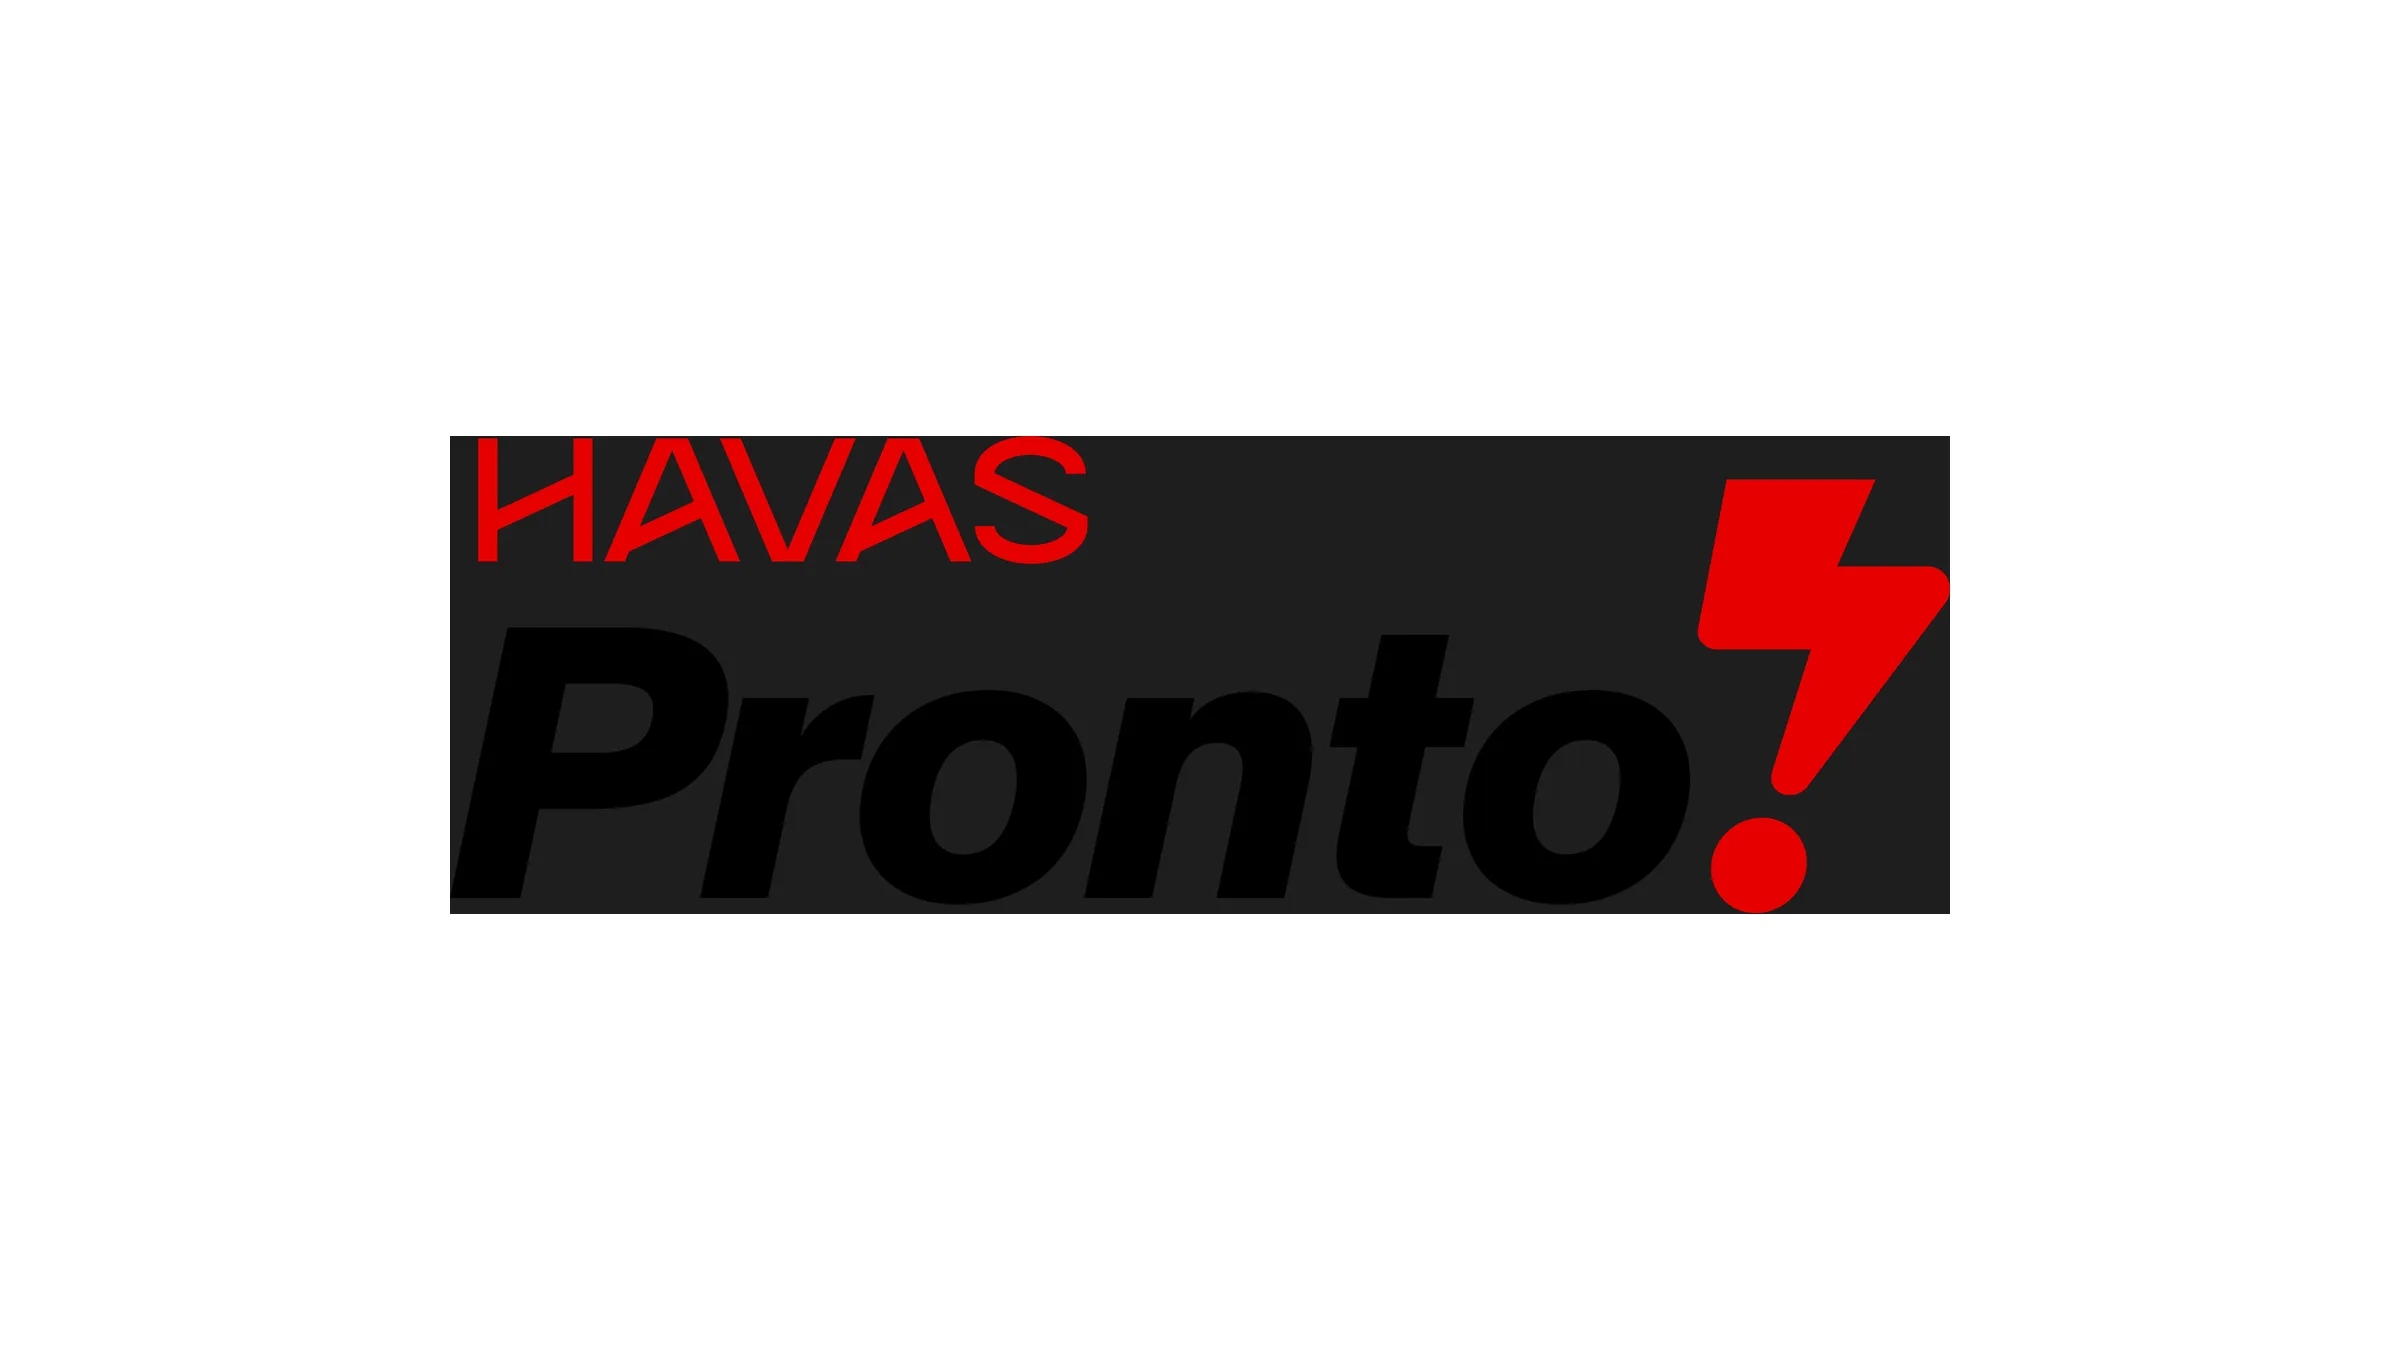
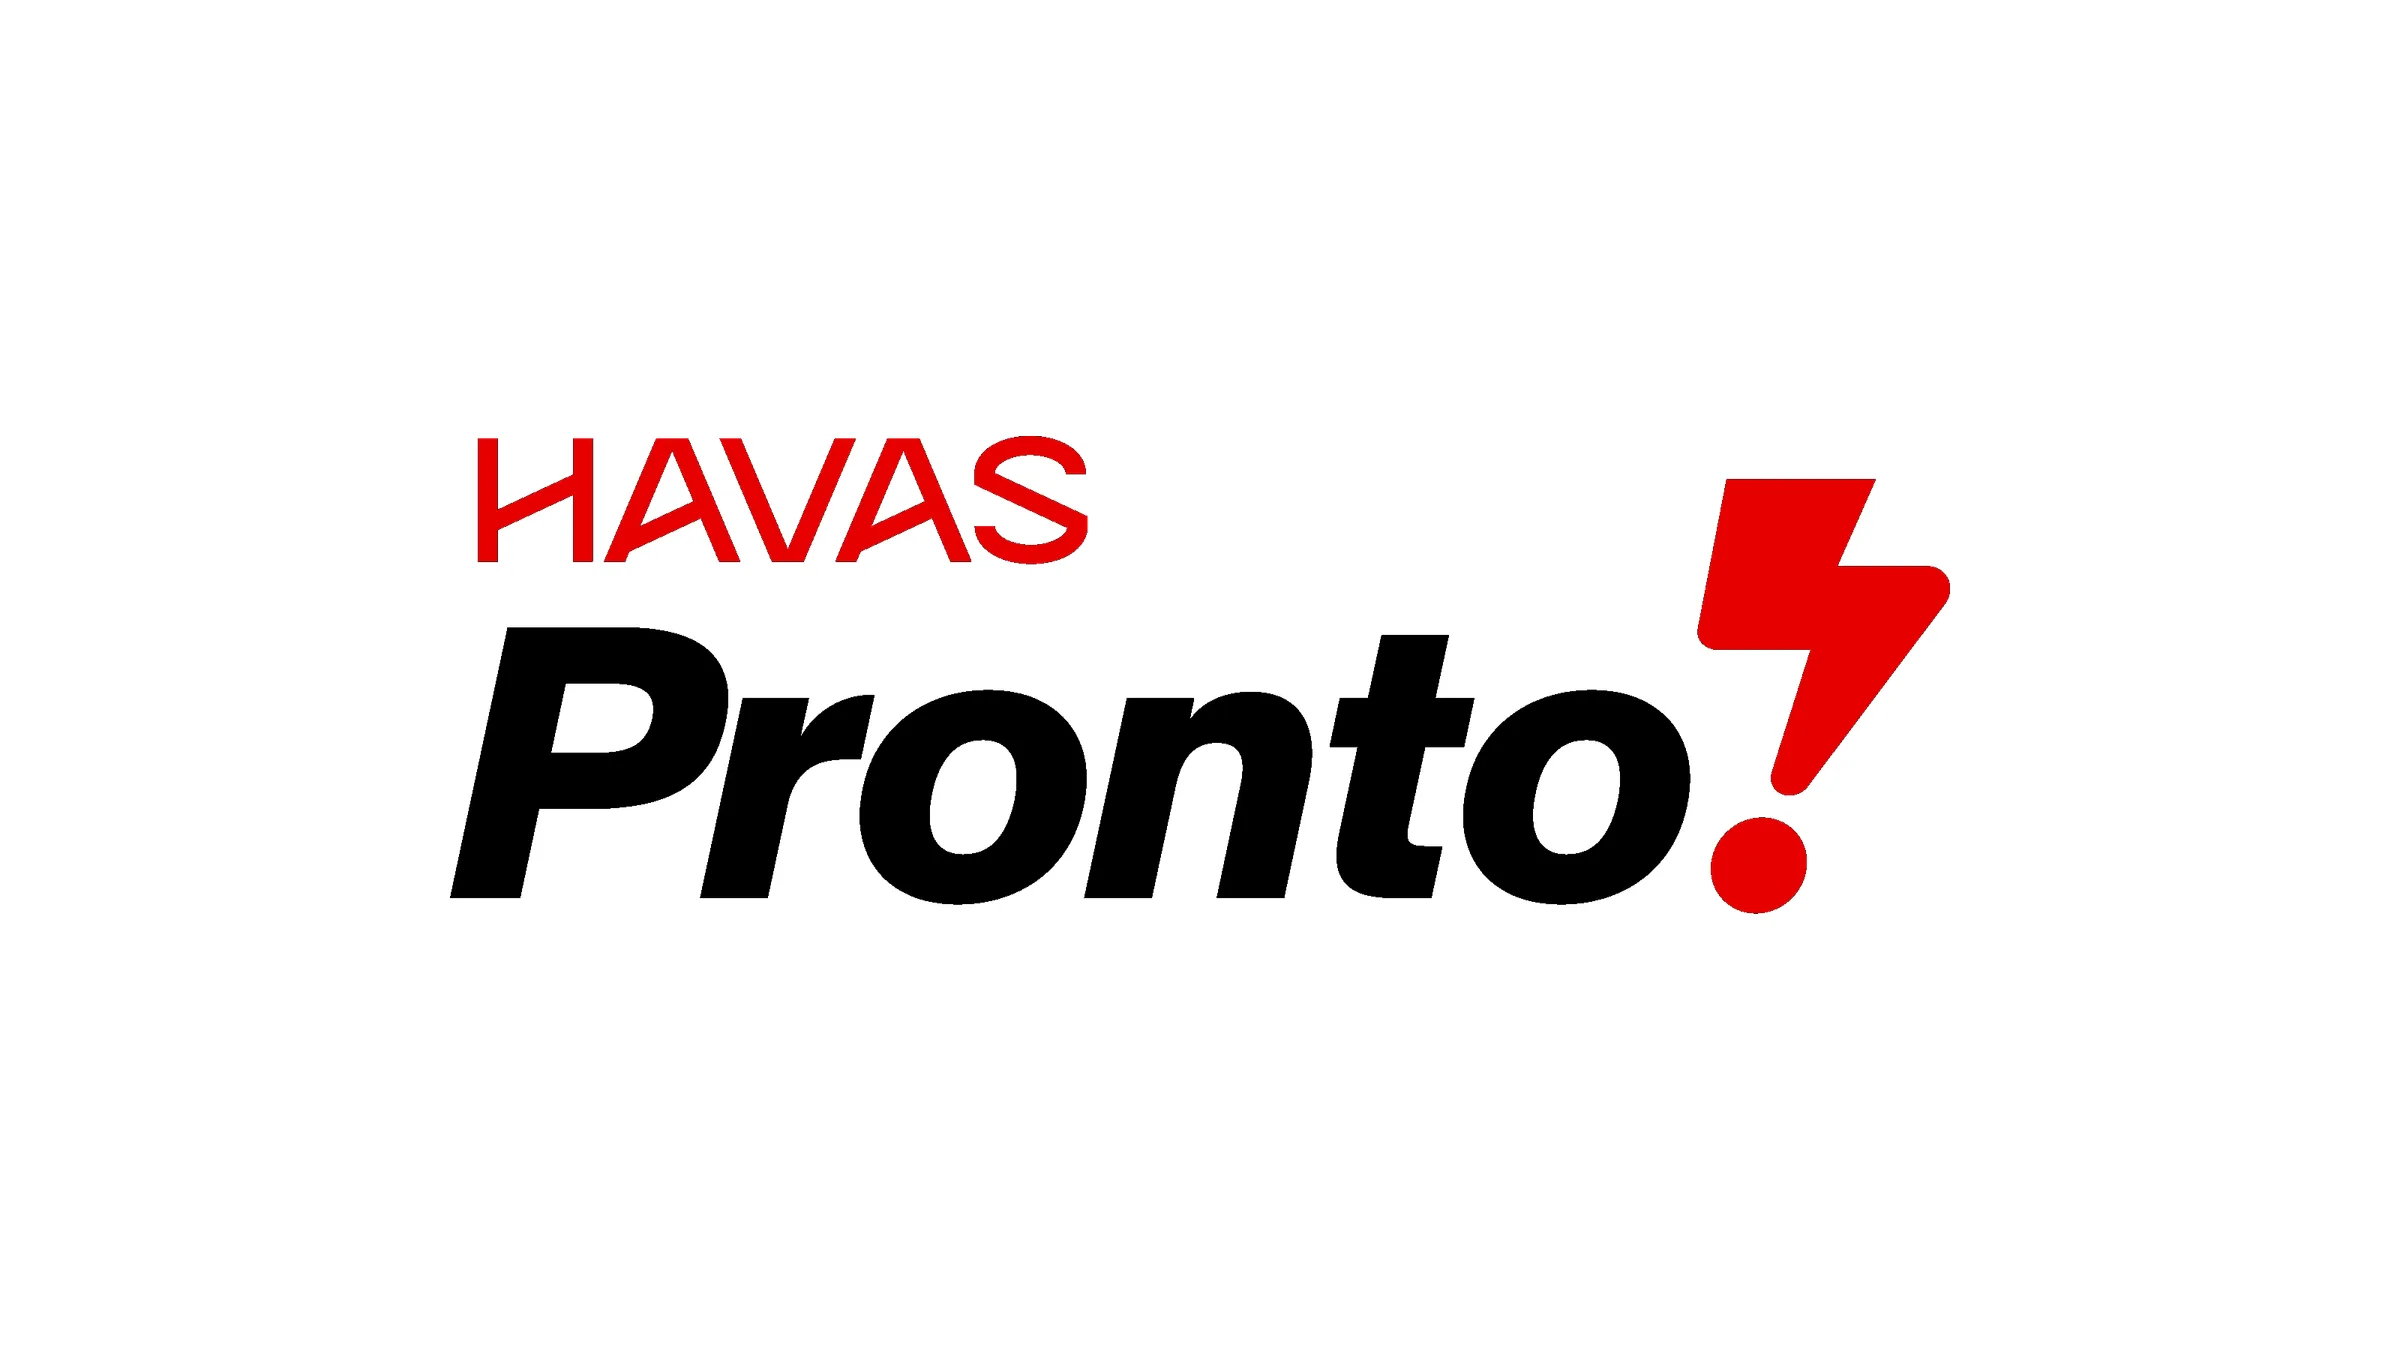
Card thumbnails, OG image, eager above-the-fold, content fixes

Changed region(s): [[0.1875, 0.3111, 0.8125, 0.6844]]

diff --git a/src/content/projects.ts b/src/content/projects.ts
@@ -17,12 +17,14 @@ export type Project = {
   credits?: string;
   link?: { href: string; text: string };
   panel: string;
-  cover: { n: number; fit: "contain" | "cover"; blend?: boolean; alt: string };
+  cover: { n: number; fit: "contain" | "cover"; pos?: "center"; blend?: boolean; alt: string };
   sections: Section[];
 };
 
 export const imgSize = (slug: string, n: number): [number, number] =>
   (sizes as unknown as Record<string, [number, number]>)[`${slug}/${String(n).padStart(2, "0")}`] ?? [1600, 1000];
+export const imgSizeRaw = (slug: string): [number, number] | undefined =>
+  (sizes as unknown as Record<string, [number, number]>)[`${slug}/card`];
 export const imgSrc = (slug: string, n: number) => `/work/${slug}/${String(n).padStart(2, "0")}.webp`;
 
 const i = (n: number, alt: string, caption?: string, blend?: boolean): Img => ({ n, alt, caption, blend });
@@ -82,11 +84,11 @@ export const projects: Project[] = [
     year: "2021",
     deliverables: "Landing page, social ads, device mockups",
     panel: "#E8322A",
-    cover: { n: 1, fit: "contain", blend: true, alt: "Now Switch! landing page on a desktop monitor" },
+    cover: { n: 1, fit: "contain", alt: "Now Switch! landing page on a desktop monitor" },
     sections: [
       {
         rows: [
-          full(i(1, "Now Switch! landing page on a desktop monitor", undefined, true)),
+          full(i(1, "Now Switch! landing page on a desktop monitor")),
           full(i(2, "Now Switch! landing page on a laptop")),
           two(
             i(3, "Concept board for the Now Switch! campaign with Nintendo imagery"),
@@ -100,7 +102,7 @@ export const projects: Project[] = [
             i(7, "Now Switch! landing page hero at desktop width"),
             i(8, "Now Switch! landing page review and steps section at desktop width"),
           ),
-          full(i(9, "Now Switch! campaign shown across phone and desktop devices", undefined, true)),
+          full(i(9, "Now Switch! campaign shown across phone and desktop devices")),
           three(
             i(10, "Facebook post showing the Now Switch! ad in a comment thread"),
             i(11, "Facebook feed ad: switch your web hosting to us and win a Nintendo Switch", "Social ad."),
@@ -128,11 +130,11 @@ export const projects: Project[] = [
     year: "2021",
     deliverables: "Campaign landing page, domain search, social ads",
     panel: "#C9733A",
-    cover: { n: 1, fit: "contain", blend: true, alt: "Two phones showing the 10,000 free .au domains campaign" },
+    cover: { n: 1, fit: "contain", alt: "Two phones showing the 10,000 free .au domains campaign" },
     sections: [
       {
         rows: [
-          full(i(1, "Two phones showing the 10,000 free .au domains campaign", undefined, true)),
+          full(i(1, "Two phones showing the 10,000 free .au domains campaign")),
           full(i(2, "Campaign landing page on a tablet")),
           full(i(3, "Illustrated outback landing page with the 10,000 free domains headline")),
           two(
@@ -166,7 +168,7 @@ export const projects: Project[] = [
     deliverables:
       "Promo posters, digital menu screens, social content, menus, packaging, store hoardings, product photography",
     panel: "#FFE14D",
-    cover: { n: 1, fit: "cover", alt: "Hokkaido Baked Cheese Tart logo on yellow" },
+    cover: { n: 1, fit: "cover", pos: "center", alt: "Hokkaido Baked Cheese Tart logo on yellow" },
     sections: [
       {
         label: "Hokkaido Baked Cheese Tart",
@@ -269,10 +271,6 @@ export const projects: Project[] = [
     sections: [
       {
         rows: [
-          two(
-            i(2, "Pronto marketing homepage design in Figma: hero, features and key feature sections", "Homepage design, desktop."),
-            i(3, "Pronto marketing homepage design in Figma: feature detail sections"),
-          ),
           full(i(7, "Design specification sheet with numbered annotations for the Pronto hero", "Design specs for engineering.")),
           full(i(1, "The live Pronto marketing site at desktop width", "Live site, desktop.")),
           three(
@@ -297,20 +295,20 @@ export const projects: Project[] = [
     year: "2021",
     deliverables: "Landing pages, illustration, pricing and review components",
     panel: "#4B2BB5",
-    cover: { n: 1, fit: "contain", blend: false, alt: "Three phones showing the VentraIP WordPress, cPanel and Business hosting landing pages" },
+    cover: { n: 1, fit: "contain", alt: "Three phones showing the VentraIP WordPress, cPanel and Business hosting landing pages" },
     sections: [
       {
         rows: [
           full(i(1, "Three phones showing the VentraIP WordPress, cPanel and Business hosting landing pages")),
           two(
-            i(2, "Two phones showing the VentraIP hosting landing pages", undefined, true),
-            i(3, "VentraIP enterprise hosting page on a monitor", undefined, true),
+            i(2, "Two phones showing the VentraIP hosting landing pages"),
+            i(3, "VentraIP enterprise hosting page on a monitor"),
           ),
           full(i(5, "Business hosting landing page at desktop width with pricing plans")),
           full(i(6, "WordPress hosting landing page with an illustrated purple hero")),
           full(i(7, "Hosting page section about servers and network infrastructure")),
           two(
-            i(4, "VentraIP hosting page on a tablet", undefined, true),
+            i(4, "VentraIP hosting page on a tablet"),
             i(8, "Hosting landing page section at desktop width"),
           ),
           three(

diff --git a/src/app/work/[slug]/page.tsx b/src/app/work/[slug]/page.tsx
@@ -14,7 +14,7 @@ export async function generateMetadata({ params }: { params: Promise<{ slug: str
   return { title: `${p.title} — Varun Prasad`, description: p.outcome, openGraph: { title: p.title, description: p.outcome, images: [imgSrc(p.slug, p.cover.n)] } };
 }
 
-function Pic({ p, im, sizes }: { p: Project; im: Img; sizes?: string }) {
+function Pic({ p, im, sizes, eager }: { p: Project; im: Img; sizes?: string; eager?: boolean }) {
   const [w, h] = imgSize(p.slug, im.n);
   const tall = h / w > 1.1;
   return (
@@ -26,7 +26,8 @@ function Pic({ p, im, sizes }: { p: Project; im: Img; sizes?: string }) {
           width={w}
           height={h}
           alt={im.alt}
-          loading="lazy"
+          loading={eager ? "eager" : "lazy"}
+          fetchPriority={eager ? "high" : undefined}
           decoding="async"
           sizes={sizes}
           className="block h-auto w-full"
@@ -38,15 +39,15 @@ function Pic({ p, im, sizes }: { p: Project; im: Img; sizes?: string }) {
   );
 }
 
-function GalleryRow({ p, row }: { p: Project; row: Row }) {
+function GalleryRow({ p, row, first }: { p: Project; row: Row; first?: boolean }) {
   if (row.type === "stack") {
     return (
-      <Reveal>
+      <Reveal skip={first}>
         <div className="overflow-hidden rounded-[20px] p-4 md:p-10" style={{ background: p.panel }}>
-          {row.imgs.map((im) => {
+          {row.imgs.map((im, k) => {
             const [w, h] = imgSize(p.slug, im.n);
             // eslint-disable-next-line @next/next/no-img-element
-            return <img key={im.n} src={imgSrc(p.slug, im.n)} width={w} height={h} alt={im.alt} loading="lazy" decoding="async" className="block h-auto w-full" />;
+            return <img key={im.n} src={imgSrc(p.slug, im.n)} width={w} height={h} alt={im.alt} loading={first && k === 0 ? "eager" : "lazy"} decoding="async" className="block h-auto w-full" />;
           })}
         </div>
         {row.imgs[0].caption && <p className="mt-3 text-sm text-muted">{row.imgs[0].caption}</p>}
@@ -55,10 +56,10 @@ function GalleryRow({ p, row }: { p: Project; row: Row }) {
   }
   const cols = row.type === "full" ? "" : row.type === "two" ? "grid gap-4 md:grid-cols-2 md:gap-6" : "grid grid-cols-1 gap-4 sm:grid-cols-3 md:gap-6";
   return (
-    <Reveal>
+    <Reveal skip={first}>
       <div className={cols}>
         {row.imgs.map((im) => (
-          <Pic key={im.n} p={p} im={im} sizes={row.type === "full" ? undefined : "(min-width: 768px) 45vw, 100vw"} />
+          <Pic key={im.n} p={p} im={im} eager={first} sizes={row.type === "full" ? undefined : "(min-width: 768px) 45vw, 100vw"} />
         ))}
       </div>
     </Reveal>
@@ -102,7 +103,7 @@ export default async function ProjectPage({ params }: { params: Promise<{ slug: 
           <section key={si} className="grid gap-6 md:gap-8" aria-label={s.label}>
             {s.label && <h2 className="label mt-8 border-b border-border pb-3 text-muted">{s.label}</h2>}
             {s.rows.map((r, ri) => (
-              <GalleryRow key={ri} p={p} row={r} />
+              <GalleryRow key={ri} p={p} row={r} first={si === 0 && ri === 0} />
             ))}
           </section>
         ))}

diff --git a/src/components/ProjectCard.tsx b/src/components/ProjectCard.tsx
@@ -1,12 +1,12 @@
 import Link from "next/link";
-import { imgSrc, imgSize, type Project } from "@/content/projects";
+import { imgSize, imgSizeRaw, type Project } from "@/content/projects";
 import Reveal from "./Reveal";
 
-export default function ProjectCard({ p, wide }: { p: Project; wide?: boolean }) {
+export default function ProjectCard({ p, wide, priority }: { p: Project; wide?: boolean; priority?: boolean }) {
   const { cover } = p;
-  const [w, h] = imgSize(p.slug, cover.n);
+  const [w, h] = (imgSizeRaw(p.slug) ?? imgSize(p.slug, cover.n));
   return (
-    <Reveal className={wide ? "md:col-span-2" : ""}>
+    <Reveal skip={priority} className={wide ? "md:col-span-2" : ""}>
       <Link href={`/work/${p.slug}/`} className="card group block hover:text-ink">
         <div
           className={`relative overflow-hidden rounded-[20px] ${wide ? "aspect-[4/3] md:aspect-[21/9]" : "aspect-[4/3] md:aspect-[16/11]"}`}
@@ -14,14 +14,15 @@ export default function ProjectCard({ p, wide }: { p: Project; wide?: boolean })
         >
           {/* eslint-disable-next-line @next/next/no-img-element */}
           <img
-            src={imgSrc(p.slug, cover.n)}
+            src={`/work/${p.slug}/card.webp`}
             width={w}
             height={h}
             alt={cover.alt}
-            loading="lazy"
+            loading={priority ? "eager" : "lazy"}
+            fetchPriority={priority ? "high" : undefined}
             decoding="async"
             className={`card-img absolute inset-0 h-full w-full ${
-              cover.fit === "cover" ? "object-cover object-top" : "object-contain p-6 md:p-10"
+              cover.fit === "cover" ? (cover.pos === "center" ? "object-cover object-center" : "object-cover object-top") : "object-contain p-6 md:p-10"
             }`}
             style={cover.blend ? { mixBlendMode: "multiply" } : undefined}
           />

diff --git a/src/components/Reveal.tsx b/src/components/Reveal.tsx
@@ -5,15 +5,17 @@ export default function Reveal({
   children,
   className = "",
   as: Tag = "div",
+  skip = false,
 }: {
   children: React.ReactNode;
   className?: string;
   as?: "div" | "section" | "li";
+  skip?: boolean; // above the fold: render visible, no scroll-in
 }) {
   const ref = useRef<HTMLElement>(null);
   useEffect(() => {
     const el = ref.current;
-    if (!el) return;
+    if (!el || skip) return;
     const io = new IntersectionObserver(
       ([e]) => {
         if (e.isIntersecting) {
@@ -25,11 +27,11 @@ export default function Reveal({
     );
     io.observe(el);
     return () => io.disconnect();
-  }, []);
+  }, [skip]);
   // eslint-disable-next-line @typescript-eslint/no-explicit-any
   const T = Tag as any;
   return (
-    <T ref={ref} className={`reveal ${className}`}>
+    <T ref={ref} className={`${skip ? "" : "reveal "}${className}`}>
       {children}
     </T>
   );

diff --git a/src/app/page.tsx b/src/app/page.tsx
@@ -31,7 +31,7 @@ export default function Home() {
               <h3 className="label mb-8 border-b border-border pb-4 text-muted">{g}</h3>
               <div className="grid gap-x-8 gap-y-14 md:grid-cols-2">
                 {list.map((p, idx) => (
-                  <ProjectCard key={p.slug} p={p} wide={idx === 0 || (idx === list.length - 1 && list.length % 2 === 0)} />
+                  <ProjectCard key={p.slug} p={p} priority={g === groups[0] && idx < 2} wide={idx === 0 || (idx === list.length - 1 && list.length % 2 === 0)} />
                 ))}
               </div>
             </div>
